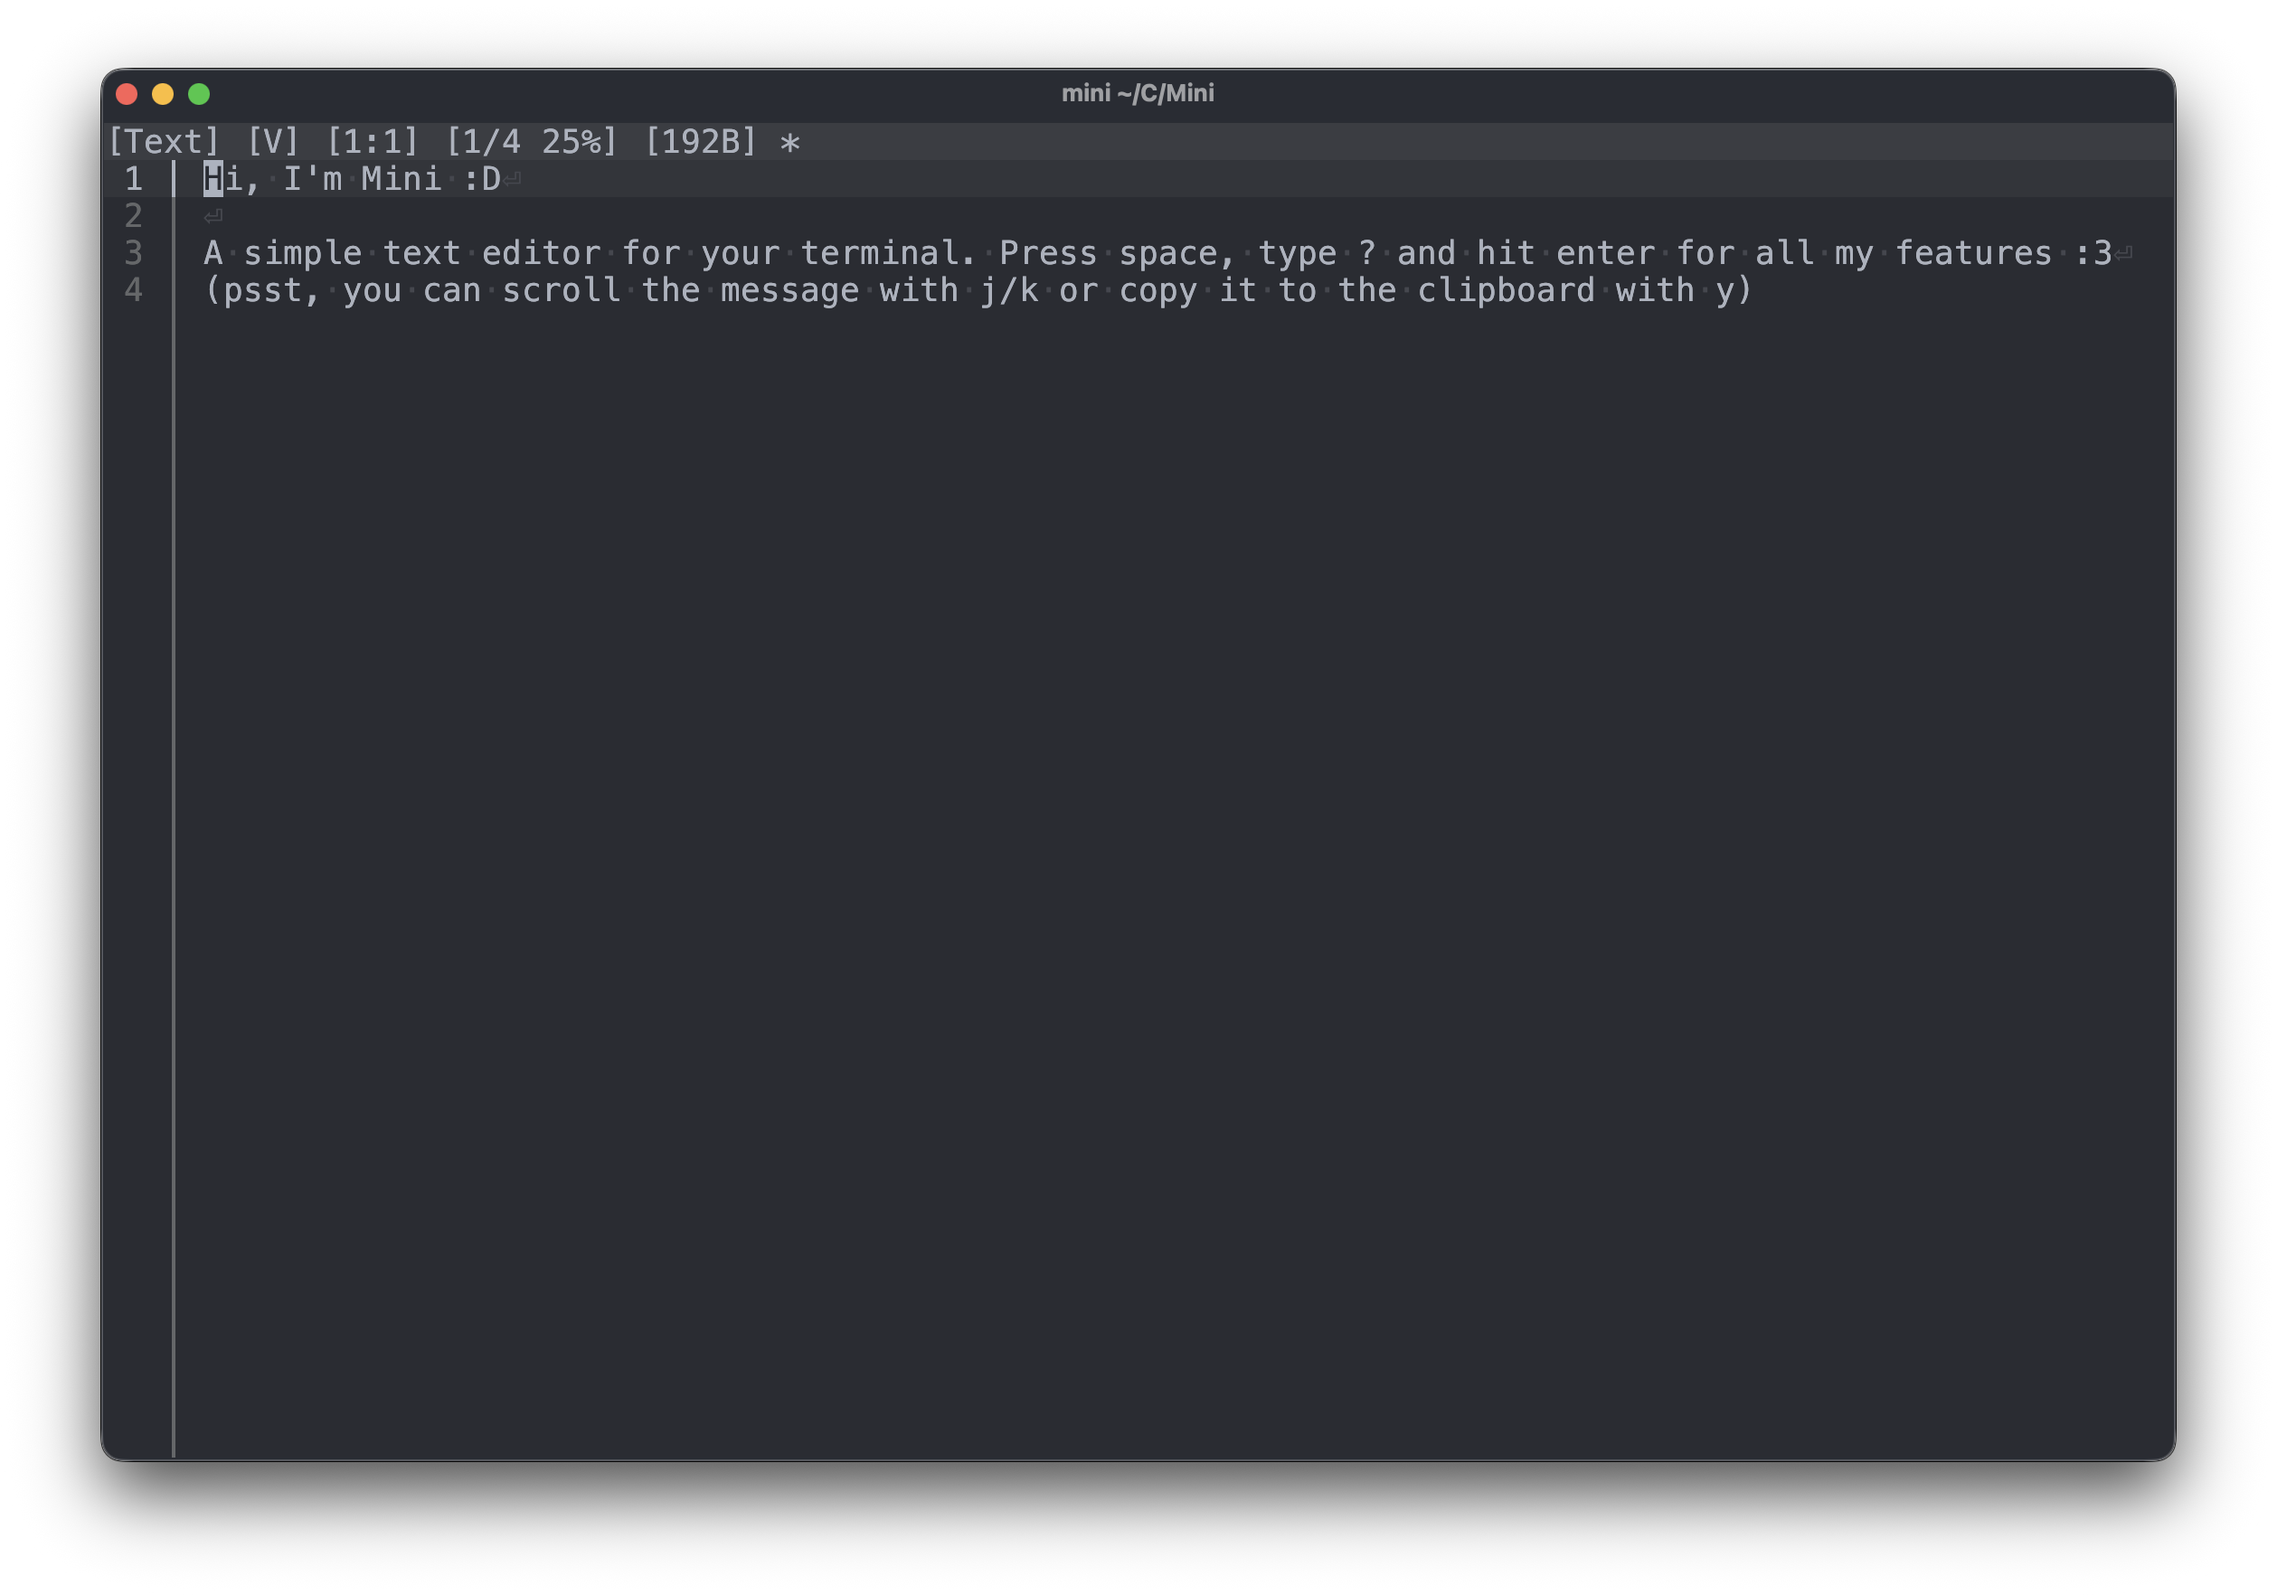
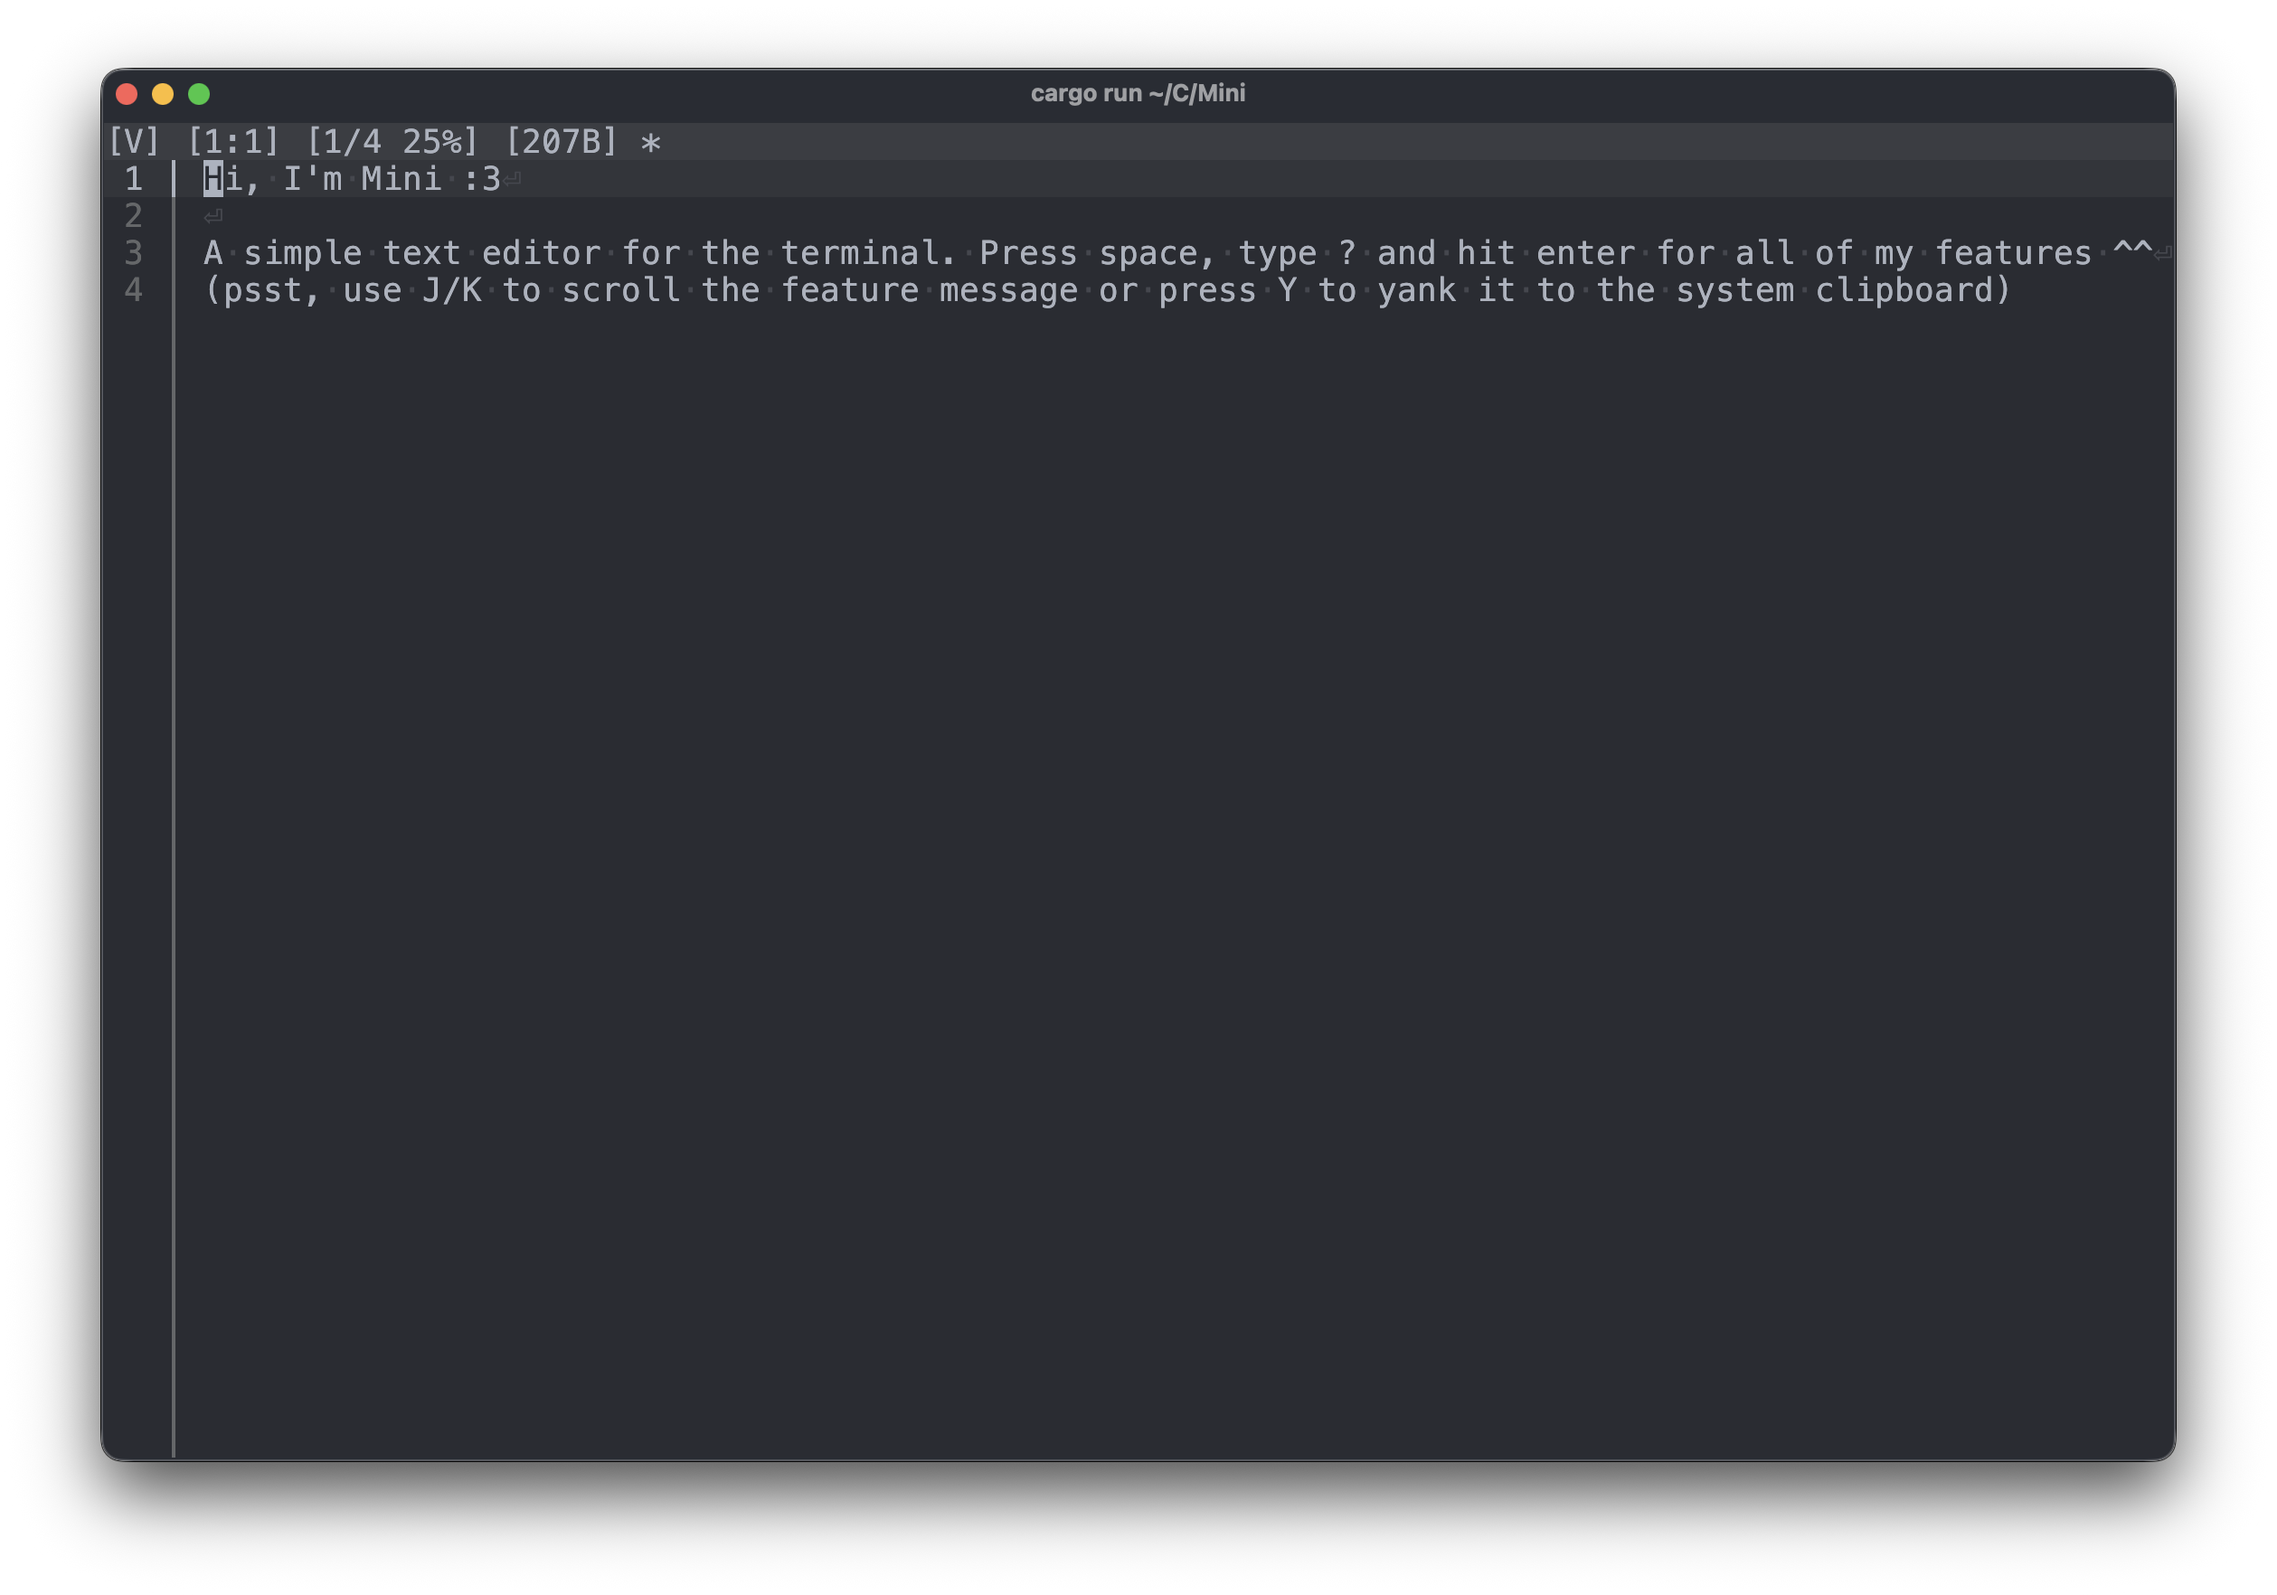
Remove [Files] tag of scratch-pad file buffer

Changed region(s): [[0.1859, 0.1559, 0.9293, 0.1871], [0.062, 0.0624, 0.3407, 0.0935], [0.4647, 0.0312, 0.5576, 0.0624]]

diff --git a/src/custom_buffers/text_buffer.rs b/src/custom_buffers/text_buffer.rs
@@ -101,13 +101,13 @@ impl TextBuffer {
         let percentage = 100 * line / total;
         let size: usize = self.base.doc.lines().map(|l| l.bytes().len()).sum();
 
-        let indicator = match &self.file {
-            Some(_) => self.file_name.as_ref().unwrap(),
-            None => "Text",
-        };
+        match &self.file {
+            Some(_) => write!(&mut info_line, "[{}] ", self.file_name.as_ref().unwrap()).unwrap(),
+            None => {}
+        }
         write!(
             &mut info_line,
-            "[{indicator}] [{mode}] [{line}:{col}] [{line}/{total} {percentage}%] [{size}B]",
+            "[{mode}] [{line}:{col}] [{line}/{total} {percentage}%] [{size}B]",
         )
         .unwrap();
 
